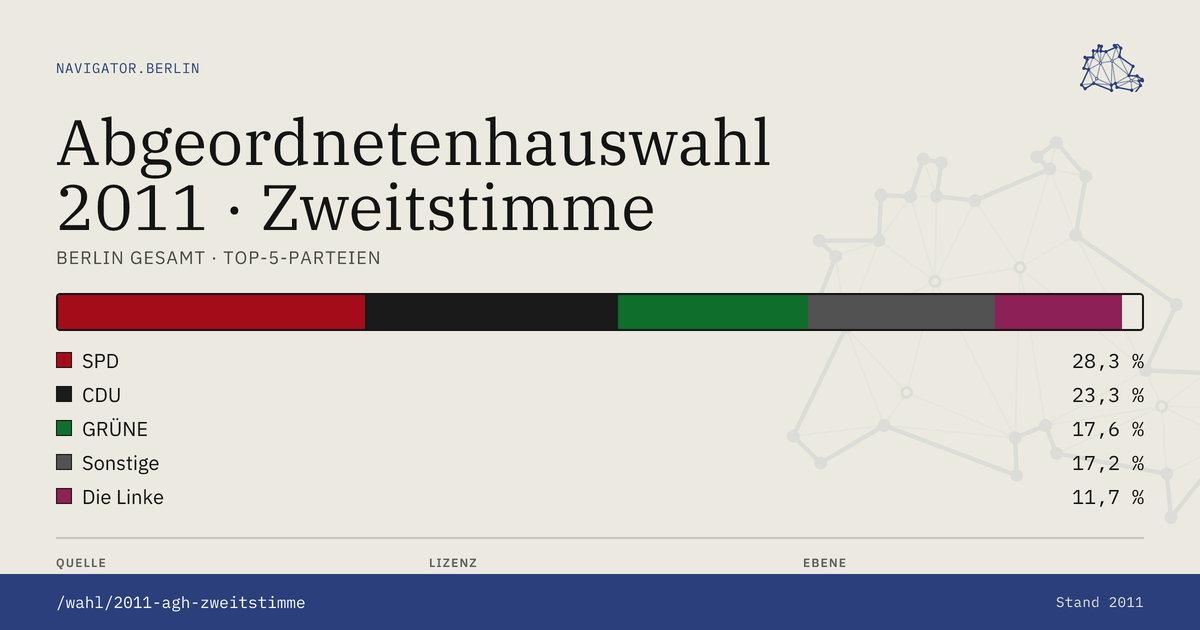
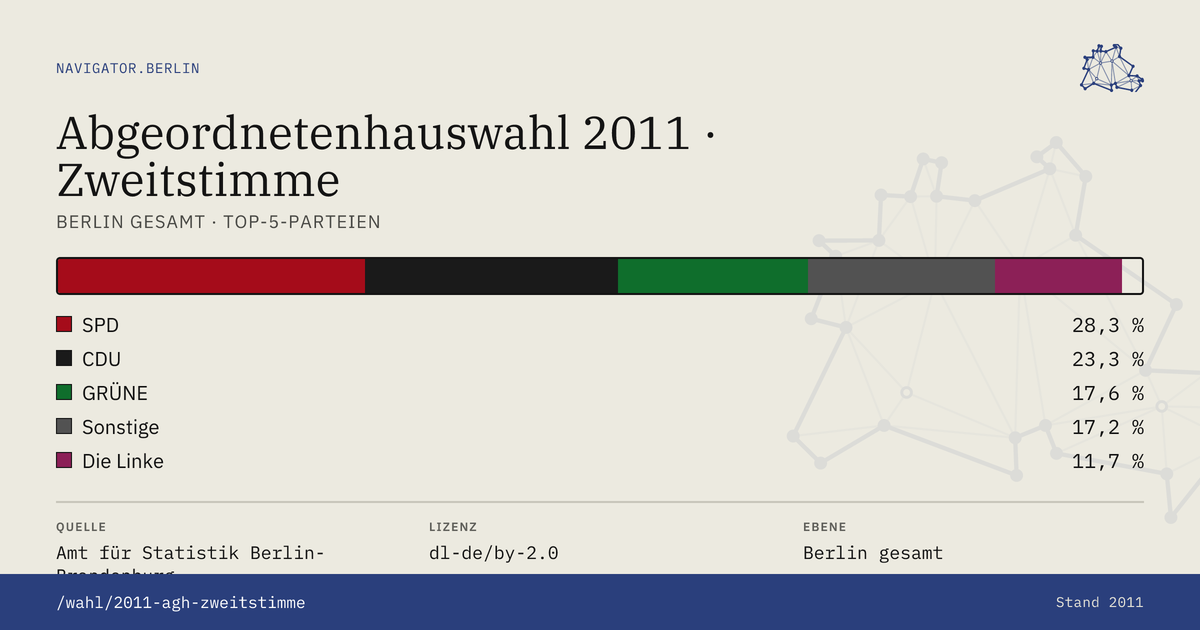
fix(epic-6,og): Wahl-OG-Card Layout · InfoRow nicht mehr von Footer überdeckt
- titleBlock + CanvasOptions akzeptieren headlineFontSize (default 64).
- Wahl-Card überschreibt mit fontSize 46 + maxWidth 880 → "Bundestagswahl 2025
  · Zweitstimme" passt jetzt einzeilig statt zweizeiligem Wrap, der die
  Quelle/Lizenz/Ebene-Werte unter den Footer-Streifen schob.
- mid-Container mit height:100% + justifyContent:space-between: StackedBar
  oben, InfoRow zuverlässig am Bottom des Content-Bereichs.
- Alle 20 PNGs re-rendered. QUELLE/LIZENZ/EBENE-Werte jetzt vollständig
  sichtbar.

diff --git a/src/lib/server/og/page-card-template.ts b/src/lib/server/og/page-card-template.ts
@@ -109,14 +109,19 @@ function headerBrand(logoDataUri: string | undefined): SatoriNode {
 	);
 }
 
-function titleBlock(headline: string, subline: string, maxWidth: number): SatoriNode {
+function titleBlock(
+	headline: string,
+	subline: string,
+	maxWidth: number,
+	fontSize = 64
+): SatoriNode {
 	return node(
 		'div',
 		{ display: 'flex', flexDirection: 'column', marginTop: 16 },
 		[
 			text(headline, {
 				fontFamily: 'Plex Serif',
-				fontSize: 64,
+				fontSize,
 				color: COLOR_INK,
 				lineHeight: 1.02,
 				maxWidth,
@@ -319,12 +324,18 @@ interface CanvasOptions {
 	readonly watermarkDataUri?: string;
 	readonly watermarkOpacity?: number;
 	readonly headlineMaxWidth?: number;
+	readonly headlineFontSize?: number;
 }
 
 function canvas(opts: CanvasOptions): SatoriNode {
 	const contentChildren: SatoriNode[] = [
 		headerBrand(opts.logoDataUri),
-		titleBlock(opts.headline, opts.subline, opts.headlineMaxWidth ?? 1000),
+		titleBlock(
+			opts.headline,
+			opts.subline,
+			opts.headlineMaxWidth ?? 1000,
+			opts.headlineFontSize ?? 64
+		),
 		node('div', { display: 'flex', flex: 1, width: '100%', marginTop: 24 }, opts.mid)
 	];
 
@@ -635,7 +646,14 @@ export function buildWahlCardVdom(params: WahlCardParams): SatoriNode {
 		subline: params.subline,
 		mid: node(
 			'div',
-			{ display: 'flex', flexDirection: 'column', width: '100%', gap: 12 },
+			{
+				display: 'flex',
+				flexDirection: 'column',
+				width: '100%',
+				height: '100%',
+				justifyContent: 'space-between',
+				gap: 12
+			},
 			[wahlStackedBar(top5), wahlInfoRow(params)]
 		),
 		footerUrl: `/wahl/${params.slug}`,
@@ -643,7 +661,8 @@ export function buildWahlCardVdom(params: WahlCardParams): SatoriNode {
 		logoDataUri: params.logoDataUri,
 		watermarkDataUri: params.watermarkDataUri,
 		watermarkOpacity: 0.08,
-		headlineMaxWidth: 760
+		headlineMaxWidth: 880,
+		headlineFontSize: 46
 	});
 }
 
